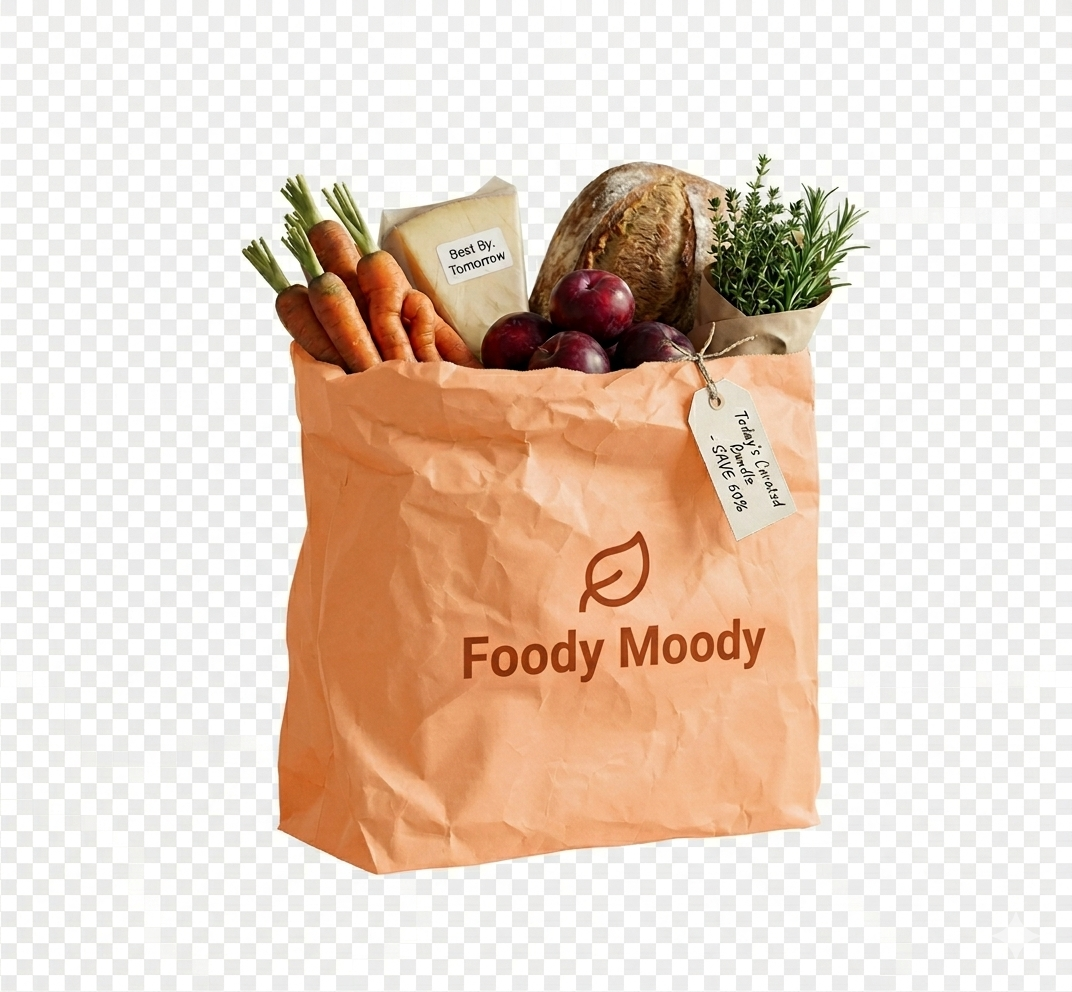
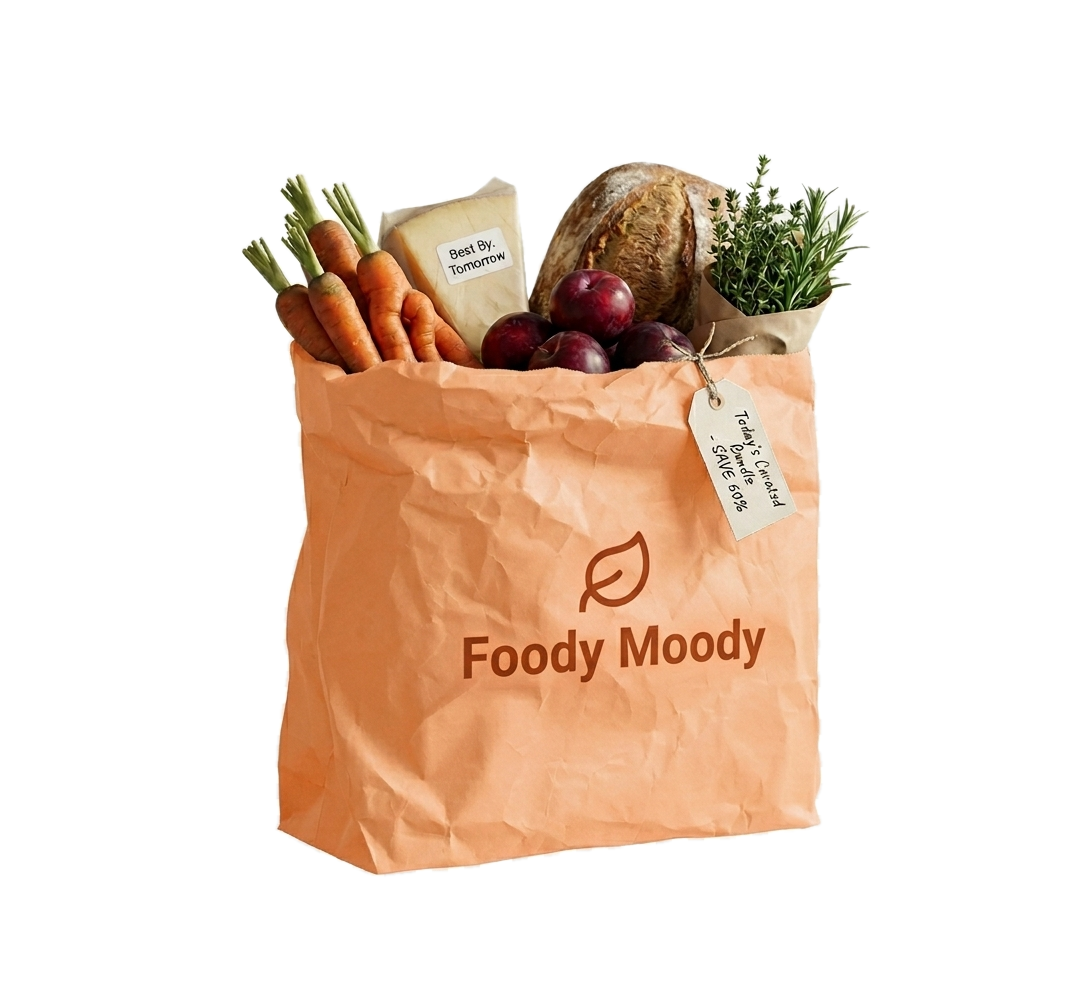
fix: remove baked-in gray background from bag PNG
PNG had fully-opaque RGB(237,237,237) background (alpha=255), not true
transparency. Used Pillow BFS flood-fill from image border + GaussianBlur
feathering to strip the background to alpha=0. Updated HeroSection:
- Removed drop-shadow-2xl from <img>, moved filter: drop-shadow to inner
  motion.div so it respects the now-transparent PNG edges
- Set backgroundColor: rgba(0,0,0,0) + isolation: isolate on scroll wrapper
  to prevent Framer Motion compositing layer white buffer

diff --git a/src/components/HeroSection.tsx b/src/components/HeroSection.tsx
@@ -1,7 +1,6 @@
 'use client';
 
 import { useEffect, useRef, useState } from 'react';
-import Image from 'next/image';
 import { motion, useScroll, useTransform, useSpring } from 'framer-motion';
 import { MapPin } from 'lucide-react';
 import { Link } from '@/i18n/navigation';
@@ -192,26 +191,28 @@ export default function HeroSection({ t, tMap, tCat }: HeroSectionProps) {
             {/* Scroll-driven outer wrapper */}
             <motion.div
               style={{
-                y:          springY,
-                rotate:     isMobile ? 0 : springRotate,
-                scale:      springScale,
-                background: 'transparent',
+                y:               springY,
+                rotate:          isMobile ? 0 : springRotate,
+                scale:           springScale,
+                backgroundColor: 'rgba(0,0,0,0)',
+                isolation:       'isolate',
               }}
             >
-              {/* Idle float inner wrapper */}
+              {/* Idle float inner wrapper — drop-shadow lives here so it
+                  respects the PNG transparency without a white compositing buffer */}
               <motion.div
                 animate={{ y: [0, -10, 0] }}
                 transition={{ duration: 4, repeat: Infinity, ease: 'easeInOut' }}
-                style={{ background: 'transparent' }}
+                style={{
+                  backgroundColor: 'rgba(0,0,0,0)',
+                  filter: 'drop-shadow(0 20px 40px rgba(0,0,0,0.18))',
+                }}
               >
-                <Image
+                {/* eslint-disable-next-line @next/next/no-img-element */}
+                <img
                   src="/foody-bag.png"
                   alt="Foody Moody bag"
-                  width={420}
-                  height={480}
-                  priority
-                  placeholder="empty"
-                  className="w-[280px] md:w-[420px] h-auto object-contain drop-shadow-2xl"
+                  className="w-[280px] md:w-[420px] h-auto object-contain"
                 />
               </motion.div>
             </motion.div>
